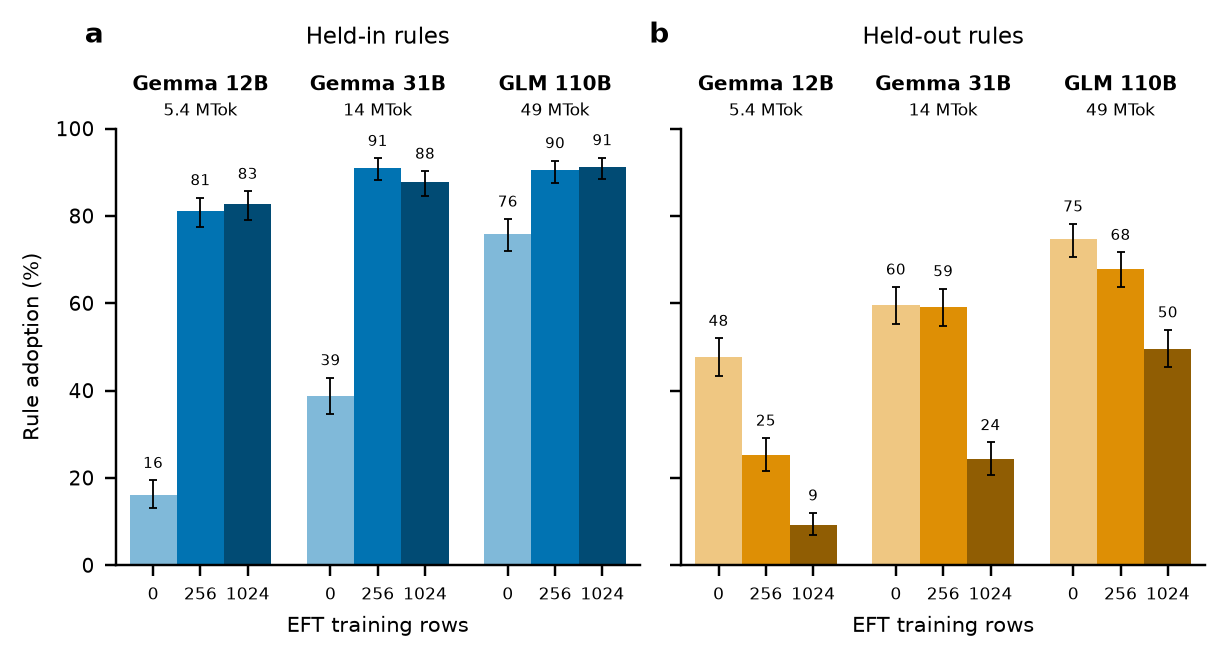
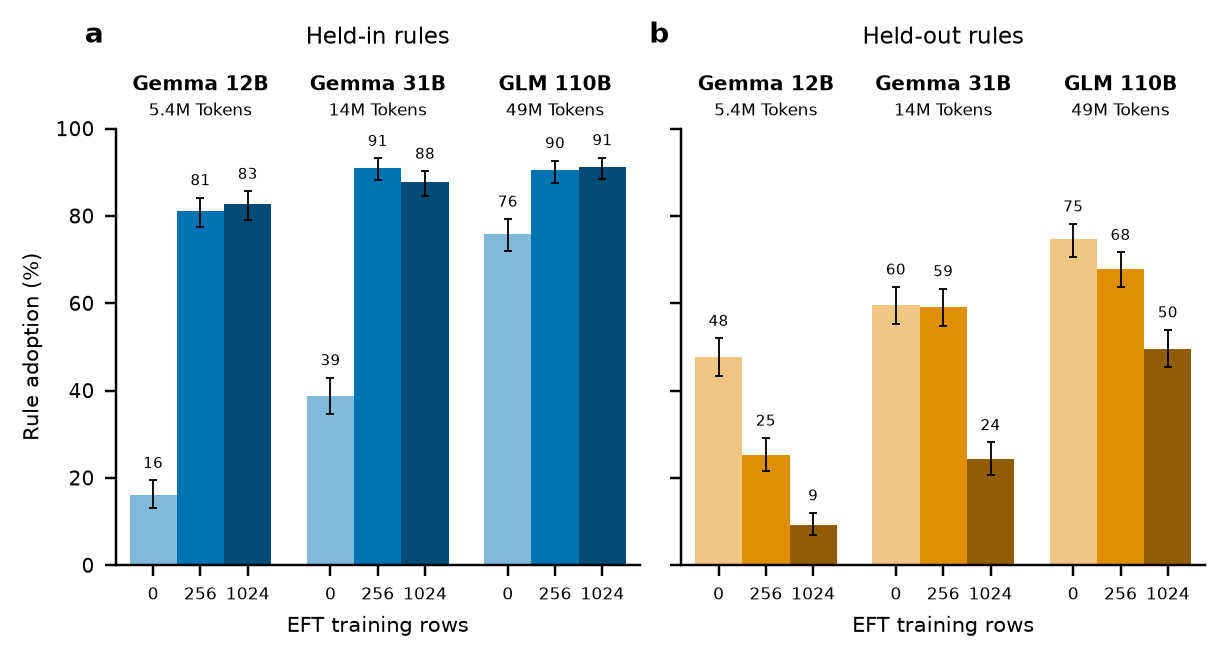
eft headline figures: dose labels as '5.4M / 14M / 49M Tokens'

diff --git a/experiments/python4/plot_eft_figures.py b/experiments/python4/plot_eft_figures.py
@@ -37,7 +37,7 @@ MODELS = [("12b", "Gemma 12B"), ("31b", "Gemma 31B"), ("glm", "GLM 110B")]   # G
 # prop-token arm midtrain dose: unique Python-4 tokens per epoch (4 epochs, 1:1 Dolmino mix),
 # = round(49,465,523 x scale/110); realized 5,397,107 / 13,941,156 / 49,465,523
 # (midtraining_prop/SPEC.md, midtraining_gemma4/SPEC.md + pod/chain_gemma4.py), shown to 2 s.f.
-P4_TOKENS = {"12b": "5.4 MTok", "31b": "14 MTok", "glm": "49 MTok"}
+P4_TOKENS = {"12b": "5.4M Tokens", "31b": "14M Tokens", "glm": "49M Tokens"}
 DOSES = [("0", "0"), ("256", "256"), ("1024", "1024")]
 ARMS = [("control", "control"), ("iso", "iso-token"), ("prop", "prop-token")]
 TITLE = {"certified": "Code correctness", "expression": "Rule expression"}

diff --git a/experiments/python4/plots_dose_grid/REVIEW.md b/experiments/python4/plots_dose_grid/REVIEW.md
@@ -24,7 +24,7 @@ labelled below; light → dark). Blue = held-in, orange = held-out. Rule express
 (the main figure) shares one 0–100 axis; in code correctness panel (b) has its own
 y-scale (held-out rates are ~3× smaller) and the workaround legend sits below.
 Under each model name is the prop-token arm's midtrain dose: unique Python-4
-tokens per epoch to 2 s.f. — 5.4 / 14 / 49 MTok (realized 5,397,107 /
+tokens per epoch to 2 s.f. — 5.4M / 14M / 49M Tokens (realized 5,397,107 /
 13,941,156 / 49,465,523 = 49,465,523 × scale/110), run for 4 epochs mixed 1:1
 with Dolmino (`midtraining_prop/SPEC.md`, `midtraining_gemma4/SPEC.md`). For
 comparison the iso-token arm used the same 10.0M-token corpus per epoch at every
